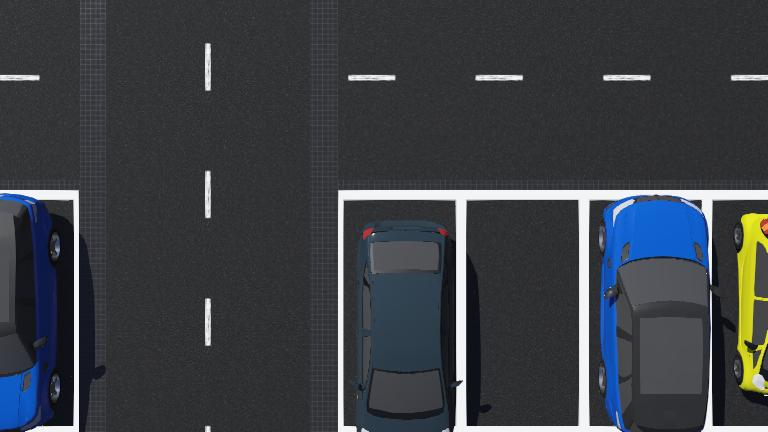
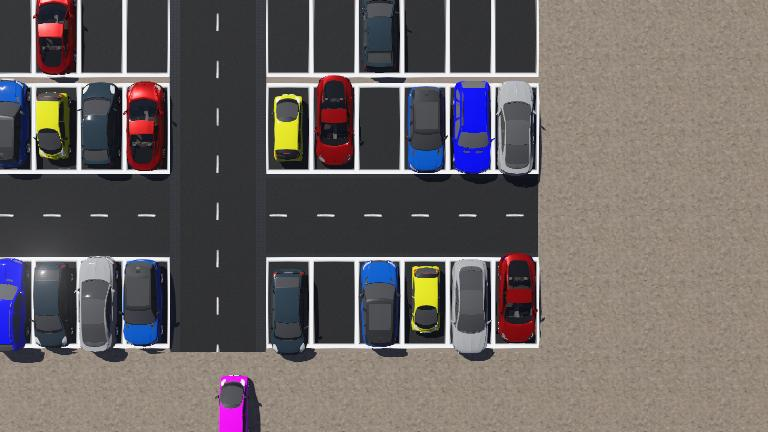
now the car can park

diff --git a/webots/smartCity/controllers/CarController/CarController.py b/webots/smartCity/controllers/CarController/CarController.py
@@ -7,6 +7,7 @@ from mqtt_publisher import MQTTClient
 
 import queue
 import math
+from math import trunc
 
 import constants as cns
 
@@ -17,7 +18,8 @@ class CarController(Car):
         self.car_brand_name = car_brand_name
 
         self.max_steering_angle = max_steering_angle
-        self.required_angle_to_brake = 6  # expressed in degrees. Precisely 6,5520015705 degrees
+        self.required_angle_to_brake = 6  # expressed in degrees. Precisely 6,5520015705 degrees and 0.114354000000781 radians
+        self.current_parking_phase = 0
 
         self.camera = self.getDevice("moving_car_camera")
         self.camera.enable(17)  # Enable the camera with a sampling period of 10ms
@@ -44,8 +46,10 @@ class CarController(Car):
         # CHECK
         """
         while self.step() != -1:
-            self.go_straight(-4)
-            # self.rotate(-4, True)
+            # self.go_straight(-4)
+            self.rotate(4, False)
+            # print(self.get_car_orientation_in_degrees())
+            print(self.get_car_orientation())
         """
 
         try:
@@ -72,7 +76,23 @@ class CarController(Car):
 
                         self.message_queue.get()  # pop this message from the queue
                     elif last_received_message == cns.ROTATE_90_DEGREES_TO_RIGHT:
-                        self.rotate_90_degrees(10, True)
+                        self.rotate_x_rad(10, True, 0, False)  # it rotates the car 90 degrees
+                    elif last_received_message == cns.START_PARKING_PHASE_IN_A_LEFT_SQUARE or last_received_message == cns.START_PARKING_PHASE_IN_A_RIGHT_SQUARE:
+                        # CHECK
+                        # car_is_in_the_right_square = True if last_received_message == cns.START_PARKING_PHASE_IN_A_RIGHT_SQUARE else False
+
+                        if self.current_parking_phase == 0:
+                            self.rotate_x_rad(2, False, 31, True)
+                        elif self.current_parking_phase == 1:
+                            self.rotate_x_rad(-2, True, 61, True)
+                        elif self.current_parking_phase == 2:
+                            self.rotate_x_rad(2, False, 71, True)
+                        elif self.current_parking_phase == 3:
+                            self.rotate_x_rad(-2, True, 85, True)
+                        elif self.current_parking_phase == 4:
+                            self.rotate_x_rad(2, False, 89, True)
+                        elif self.current_parking_phase == 5:
+                            self.message_queue.get()  # pop cns.START_PARKING_PHASE_IN_A_LEFT_SQUARE or cns.START_PARKING_PHASE_IN_A_RIGHT_SQUARE message from the queue
 
                 # START camera
                 self.camera.getImage()
@@ -117,7 +137,51 @@ class CarController(Car):
 
         self.setCruisingSpeed(speed)
 
+    def rotate_x_rad(self, speed, turn_to_the_right, target_angle, car_is_in_parking_phase, steering_angle=None):
+        car_orientation_in_degrees = self.get_car_orientation_in_degrees()
+
+        if car_orientation_in_degrees < target_angle:
+            if car_orientation_in_degrees >= target_angle + self.required_angle_to_brake:
+                # the car has finished the maneuver of rotation
+
+                if car_is_in_parking_phase:
+                    self.current_parking_phase += 1  # jump to the next rotation
+                else:
+                    self.message_queue.get()  # pop cns.ROTATE_90_DEGREES_TO_RIGHT or cns.ROTATE_90_DEGREES_TO_LEFT message from the queue
+
+                    self.mqtt.publish_message(cns.MANEUVER_COMPLETED)  # inform the CCTV camera that the maneuver is completed
+                    print("MANEUVER COMPLETED")
+                    self.message_queue.get()  # pop cns.MANEUVER_COMPLETED message from the queue
+
+                self.stop()
+            else:
+                # the car hasn't finished yet the maneuver of rotation
+
+                self.rotate(speed, turn_to_the_right, steering_angle)
+        else:
+            if car_orientation_in_degrees <= target_angle + self.required_angle_to_brake:
+                # the car has finished the maneuver of rotation
+
+                if car_is_in_parking_phase:
+                    self.current_parking_phase += 1  # jump to the next rotation
+                else:
+                    self.message_queue.get()  # pop cns.ROTATE_90_DEGREES_TO_RIGHT or cns.ROTATE_90_DEGREES_TO_LEFT message from the queue
+
+                    self.mqtt.publish_message(cns.MANEUVER_COMPLETED)  # inform the CCTV camera that the maneuver is completed
+                    print("MANEUVER COMPLETED")
+                    self.message_queue.get()  # pop cns.MANEUVER_COMPLETED message from the queue
+
+                self.stop()
+            else:
+                # the car hasn't finished yet the maneuver of rotation
+
+                self.rotate(speed, turn_to_the_right, steering_angle)
+
+    """
     def rotate_90_degrees(self, speed, turn_to_the_right, steering_angle=None):
+        # CHECK
+        print("SONO NELLA FUNZIONE")
+
         if self.get_car_orientation_in_degrees() == 0 + self.required_angle_to_brake:  # CHECK 0 for the moment, later I have to edit it
             # the car has finished the maneuver of rotation
             self.message_queue.get()  # pop the first value of the queue
@@ -125,15 +189,26 @@ class CarController(Car):
             self.mqtt.publish_message(cns.MANEUVER_COMPLETED)  # inform the CCTV camera that the maneuver is completed
             print("MANEUVER COMPLETED")
             self.message_queue.get()  # pop cns.MANEUVER_COMPLETED message from the queue
+
+            # CHECK
+            print("SONO NEL RAMO TRUE")
         else:
             # the car hasn't finished yet the maneuver of rotation
             self.rotate(speed, turn_to_the_right, steering_angle)
+    """
 
     def get_car_orientation_in_degrees(self):
+        orientation = self.get_car_orientation()
+        return int(math.degrees(orientation))
+
+    def get_car_orientation(self):
         compass_values = self.compass.getValues()
 
-        orientation = math.atan2(compass_values[0], compass_values[1])
-        return int(math.degrees(orientation))
+        return math.atan2(compass_values[0], compass_values[1])  # orientation expressed in rad
+
+    @staticmethod
+    def trunc_to_two_decimal_places(num):
+        return trunc(num * 100) / 100
 
 
 if __name__ == "__main__":

diff --git a/ParkingManager.py b/ParkingManager.py
@@ -413,14 +413,21 @@ class ParkingManager:
             return
 
         if self.current_driving_phase == 1:
-            self.guide_the_car_until_the_target(False, False, 548)  # 1° phase
+            # 1° phase
+            self.guide_the_car_until_the_target(False, False, 548)
         elif self.current_driving_phase == 2:
-            self.rotate_the_car()  # 2° phase
+            # 2° phase
+            self.rotate_the_car()
         elif self.current_driving_phase == 3:
+            # 3° phase
             self.start_the_mqtt_listener_thread()
-            self.wait_the_car_until_it_finish_the_maneuver()  # 3° phase
+            self.wait_the_car_until_it_finish_the_maneuver()
         elif self.current_driving_phase == 4:
-            self.guide_the_car_until_the_target(True, True, 876)  # CHECK now the Citroen reaches the blue car
+            # 4° phase
+            self.guide_the_car_until_the_target(True, True, 821)  # CHECK now the Citroen reaches the blue car; target_coordinate was 876
+        elif self.current_driving_phase == 5:
+            # 5° phase
+            self.send_start_park()
 
     def guide_the_car_until_the_target(self, car_goes_parallel_to_x_axis, car_goes_to_greater_coordinates, target_coordinate):
         car_coordinate = self.car_about_to_park["box"]["x2"] if car_goes_parallel_to_x_axis else self.car_about_to_park["box"]["y1"]
@@ -580,6 +587,10 @@ class ParkingManager:
 
     def send_parking_entrance_crossed(self):
         self.mqtt.publish_message(cns.PARKING_ENTRANCE_CROSSED)
+
+    def send_start_park(self):
+        self.mqtt.publish_message(cns.START_PARKING_PHASE_IN_A_RIGHT_SQUARE)  # CHECK for the moment I assume that the car parks only
+        # in the right square
 
     def send_rotate(self, to_the_right):
         if to_the_right:

diff --git a/constants.py b/constants.py
@@ -23,6 +23,8 @@ GO_STRAIGHT = "GO_STRAIGHT"
 ROTATE_90_DEGREES_TO_RIGHT = "ROT_R"
 ROTATE_90_DEGREES_TO_LEFT = "ROT_L"
 MANEUVER_COMPLETED = "DONE"
+START_PARKING_PHASE_IN_A_LEFT_SQUARE = "START_PAR_L"
+START_PARKING_PHASE_IN_A_RIGHT_SQUARE = "START_PAR_R"
 # END msg broker
 
 
